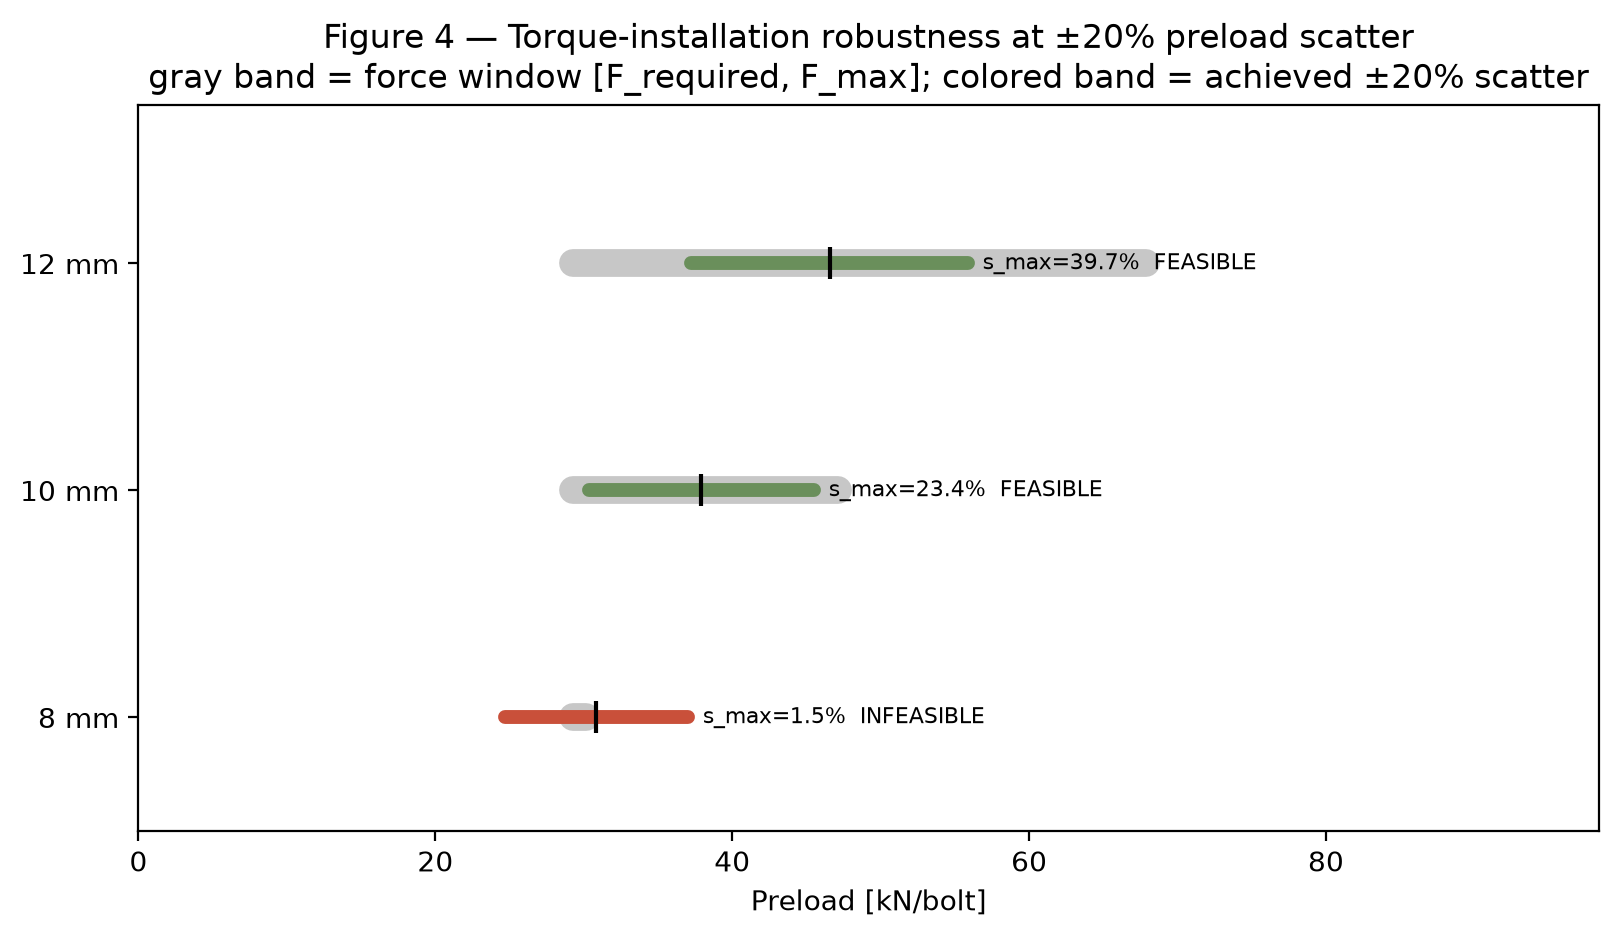
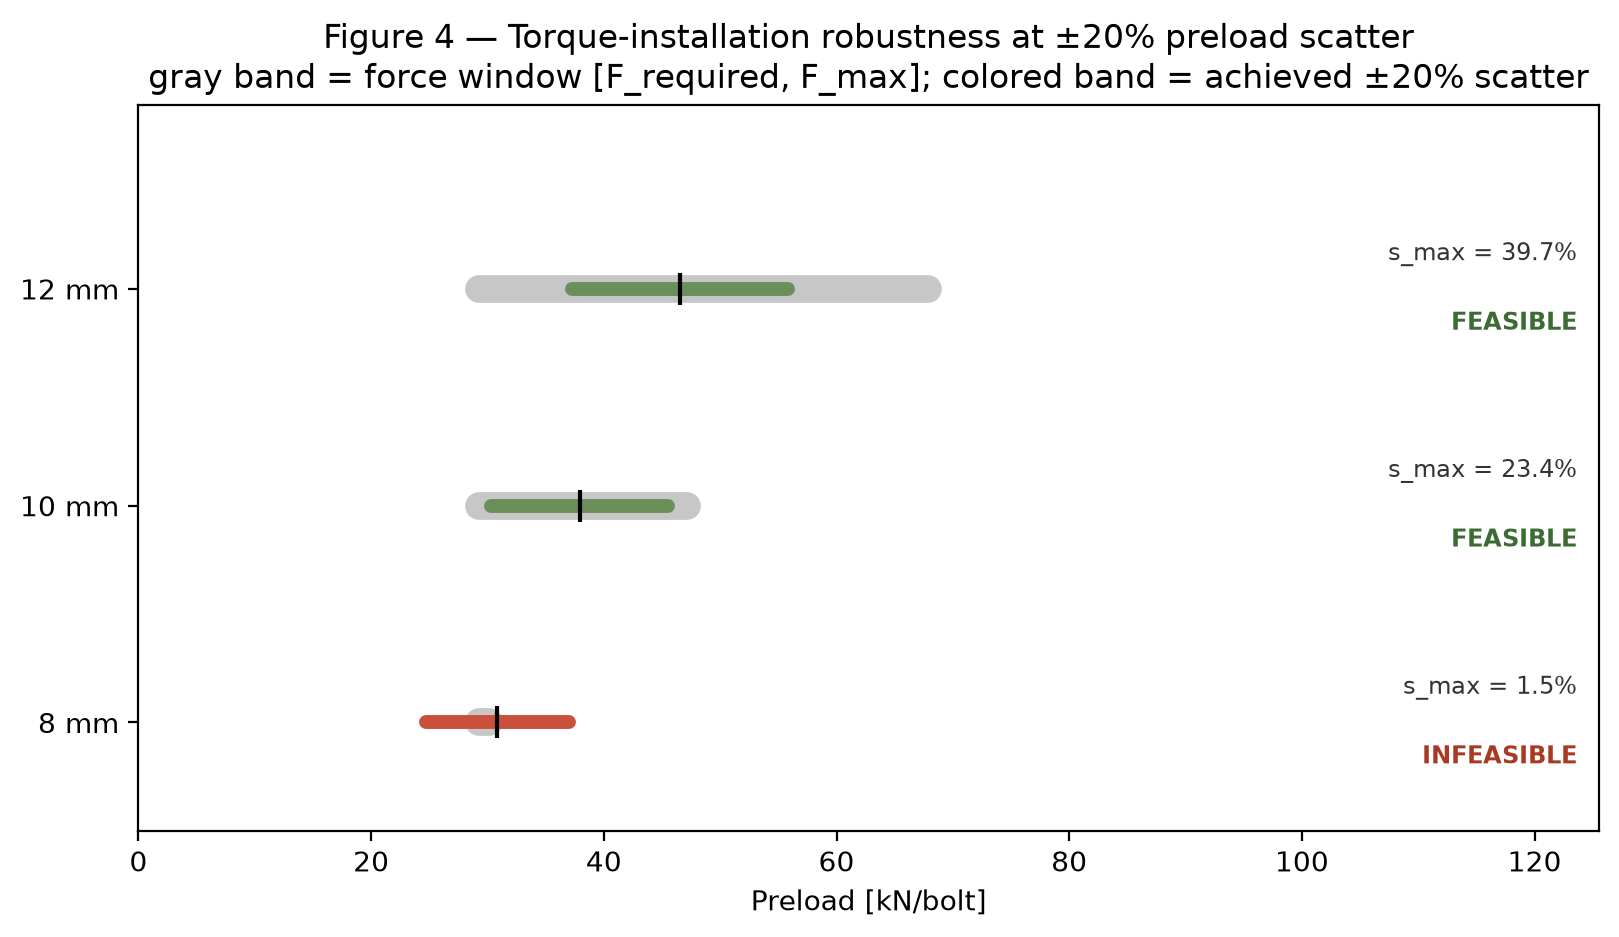
docs: polish torque robustness figure
Presentation-only cleanup of Figure 4 (fig4_torque_installation_robustness):
the s_max/FEASIBLE-INFEASIBLE annotations were slightly crowded against
the preload/scatter bands. Annotations are now anchored to a fixed
axes-fraction x-position (independent of each row's band width) and
split onto two lines (s_max value, then verdict), so every row reads
cleanly clear of the bands/markers regardless of diameter.

No engineering calculation, numerical data, axis, candidate selection,
README conclusion, or analysis logic changed. Exact values preserved:
8mm s_max=1.5% INFEASIBLE, 10mm s_max=23.4% FEASIBLE, 12mm s_max=39.7%
FEASIBLE. Figures 1-3 confirmed byte-identical (same MD5) before and
after this change; figure 4 regenerated from the script only, no
hand-edited PNG. Full test suite rerun: 260/260 passing, unchanged.

diff --git a/scripts/generate_figures.py b/scripts/generate_figures.py
@@ -255,8 +255,32 @@ def figure_4_torque_robustness() -> None:
         ax.plot([low / 1e3, high / 1e3], [y_pos[i], y_pos[i]], color=color, linewidth=5, zorder=3, solid_capstyle="round")
         ax.scatter([nominal / 1e3], [y_pos[i]], color="black", marker="|", s=140, zorder=4)
 
-        label = f"s_max={s_max*100:.1f}%  {'FEASIBLE' if tw.feasible else 'INFEASIBLE'}"
-        ax.annotate(label, (high / 1e3 + 1.0, y_pos[i]), fontsize=8, va="center", ha="left")
+        # Annotation is anchored to a FIXED fraction of the axes width
+        # (not to the band's own right edge), so its position never
+        # depends on how wide any individual band is -- this keeps every
+        # row's text clear of the bands/markers regardless of diameter.
+        s_max_label = f"s_max = {s_max*100:.1f}%"
+        verdict_label = "FEASIBLE" if tw.feasible else "INFEASIBLE"
+        verdict_color = "#3d6b34" if tw.feasible else "#a83a24"
+        ax.annotate(
+            s_max_label,
+            xy=(0.985, y_pos[i] + 0.16),
+            xycoords=("axes fraction", "data"),
+            fontsize=8.5,
+            va="center",
+            ha="right",
+            color="#333333",
+        )
+        ax.annotate(
+            verdict_label,
+            xy=(0.985, y_pos[i] - 0.16),
+            xycoords=("axes fraction", "data"),
+            fontsize=8.5,
+            va="center",
+            ha="right",
+            color=verdict_color,
+            fontweight="bold",
+        )
         max_high_kn = max(max_high_kn, high / 1e3, ceiling / 1e3)
 
     ax.set_yticks(y_pos)
@@ -266,8 +290,10 @@ def figure_4_torque_robustness() -> None:
         "Figure 4 — Torque-installation robustness at ±20% preload scatter\n"
         "gray band = force window [F_required, F_max]; colored band = achieved ±20% scatter"
     )
-    ax.set_xlim(0, max_high_kn * 1.45)
-    ax.set_ylim(-0.5, len(diam_mm) - 0.3)
+    # Extra right-hand margin reserved for the fixed-fraction annotation
+    # column so it never overlaps the widest band (12 mm).
+    ax.set_xlim(0, max_high_kn * 1.85)
+    ax.set_ylim(-0.5, len(diam_mm) - 0.15)
     fig.tight_layout()
     _save(fig, "fig4_torque_installation_robustness.png")
 
